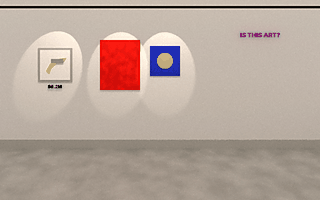
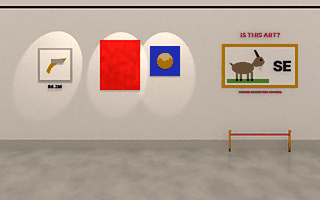
Art Basel: a goat painting, the word SE, and a fainted gallery-goer
A rebus behind a velvet rope with VIEWER DISCRETION ADVISED, plus
dialog for looking at it, waking the man who read it, and trying to buy it.

Claude-Session: https://claude.ai/code/session_01ET4nVosRozeduW6mF4cNPJ

diff --git a/src/content/chapter5.ts b/src/content/chapter5.ts
@@ -3,7 +3,7 @@
 // away from the wrong party, and helps Elon stop the Mandatory Update.
 
 import { EGA, person, poly, rect, text } from '../engine/gfx';
-import { backdrop, prop } from '../engine/art';
+import { backdrop, charSprite, prop } from '../engine/art';
 import { money, type Game } from '../engine/game';
 import type { Content, Item, Room } from '../engine/types';
 import { pamSave } from './pam';
@@ -82,8 +82,10 @@ const basel: Room = {
   title: 'Art Basel, Miami Beach',
   public: true,
   walk: { x: 4, y: 150, w: 312, h: 50 },
-  describe: 'Art Basel, Miami Beach: white walls, champagne and people pretending to understand things. A banana is duct-taped to one wall. A man in a white suit (not you, the other one) is examining it. A severe woman with a Smithsonian badge takes notes. A small man in glasses sits in a folding lawn chair in the middle of the floor. Ocean Drive is to the east.',
+  describe: 'Art Basel, Miami Beach: white walls, champagne and people pretending to understand things. A banana is duct-taped to one wall. A man in a white suit (not you, the other one) is examining it. A severe woman with a Smithsonian badge takes notes. A small man in glasses sits in a folding lawn chair in the middle of the floor. Behind a velvet rope hangs a painting of a goat, and a gallery-goer lies flat on the floor in front of it. Ocean Drive is to the east.',
   hotspots: [
+    { id: 'goat', names: ['goat', 'painting', 'goat painting', 'se', 'canvas', 'rope', 'velvet rope', 'discretion', 'placard'], rect: { x: 222, y: 44, w: 76, h: 44 }, look: (g) => { g.sfx('boing'); return 'Behind a velvet rope: an oil painting of a goat. Next to the goat, in letters two feet high, the word "SE." A placard reads VIEWER DISCRETION ADVISED. The card calls it "Untitled (Internet, 1999)."\n\nYou read it left to right. Goat. Se. Your brain finishes the word before you can stop it. You were on the internet in 1999. You have seen things.\n\nYou shudder. Somewhere in your soul a dial-up modem screams.'; } },
+    { id: 'fainted', names: ['fainted man', 'gallery goer', 'gallery-goer', 'guy on floor', 'man on floor', 'body', 'fainted', 'polo'], rect: { x: 262, y: 172, w: 40, h: 14 }, look: 'A gallery-goer in a lime polo, flat on his back in front of the goat painting, still holding his champagne perfectly upright. Someone has already put a card next to him: "REACTION (2026). Mixed media. $40,000."' },
     { id: 'banana', names: ['banana', 'art', 'tape', 'duct tape', 'wall', 'comedian'], rect: { x: 40, y: 50, w: 30, h: 30 }, look: (g) => { g.award('lookBanana'); return 'A banana, duct-taped to a white wall. The card reads: "COMEDIAN. Banana, duct tape. $6.2 million." A security guard watches it like it\'s the Mona Lisa.\n\nYou\'ve been carrying a historical artifact in your wallet for 39 years and nobody ever put it on a wall.'; } },
     { id: 'steve', names: ['steve', 'steve martin', 'martin', 'man', 'white suit', 'investor'], rect: { x: 113, y: 128, w: 14, h: 40 }, look: 'Steve Martin, in a white suit. He sees your white suit. You see his. A long moment passes between two men who have committed to the bit.' },
     { id: 'curator', names: ['curator', 'woman', 'smithsonian', 'lady', 'badge'], rect: { x: 183, y: 128, w: 14, h: 40 }, look: 'Dr. Ellen Pike, Smithsonian Curator of American Culture. Her badge says she\'s here "acquiring artifacts of the post-pandemic era." She has rejected four NFTs and a Bored Ape in the last hour.' },
@@ -95,6 +97,12 @@ const basel: Room = {
   ],
   draw(ctx, g) {
     backdrop(ctx, 'ch5-basel');
+    // the man who read the goat painting, out cold on the floor
+    ctx.save();
+    ctx.translate(304, 182);
+    ctx.rotate(-Math.PI / 2);
+    if (!charSprite(ctx, 'patron1', 0, 0, 'down')) rect(ctx, EGA.black, -6, -40, 12, 40);
+    ctx.restore();
     person(ctx, 120, 166, STEVE, 'left');
     person(ctx, 190, 166, CURATOR);
     if (!g.has('chair') && !has(g, 'chairPlaced')) {
@@ -113,6 +121,14 @@ const basel: Room = {
       g.award('sellLubber');
       g.sfx('cash');
       g.say(`You hold up the 1987 lubber. "Ma'am. This has been in my wallet since the Reagan administration. I carried it through the whole epidemic. I never needed it. Now nobody does."\n\nDr. Pike puts on white gloves. Her hands shake. "Unopened? With the original wallet ring? Do you know what this IS? This is the END of an ERA."\n\nShe makes three phone calls. A Smithsonian lawyer arrives. A check arrives. The check is for ${money(LUBBER_PRICE)}.\n\nThe lubber will hang next to Archie Bunker's chair. You finally have money. Real, American, richest-man money. Well, a start.`);
+      return true;
+    }
+    if (cmd.is(['talk', 'ask', 'wake', 'help', 'shake'], 'fainted man', 'gallery goer', 'gallery-goer', 'guy on floor', 'man on floor', 'body', 'fainted', 'polo')) {
+      g.say('You crouch down and pat his cheek. His eyes flutter open. "Was it... was it a goat?" he whispers. "And then..." His eyes drift to the wall. "...se." He faints again. His champagne does not spill.');
+      return true;
+    }
+    if (cmd.is(['get', 'take', 'buy', 'touch'], 'goat', 'painting', 'goat painting', 'canvas', 'se')) {
+      g.say('The curator steps in front of you. "That piece is not for sale, sir. It\'s for the Smithsonian\'s Hall of Things We Can Never Unsee."');
       return true;
     }
     if (cmd.is(['talk', 'ask'], 'curator', 'woman', 'smithsonian', 'lady', 'pike')) {

diff --git a/art/rooms/ch5-basel.py b/art/rooms/ch5-basel.py
@@ -1,5 +1,5 @@
-"""Chapter 5: Art Basel, Miami Beach. The neon, the duct-taped banana and
-the canvases are baked in; Moranis's chair and the people are drawn by the game."""
+"""Chapter 5: Art Basel, Miami Beach. The neon, the duct-taped banana, the
+goat painting behind its velvet rope and the canvases are baked in; Moranis's chair and the people are drawn by the game."""
 
 import os
 import sys
@@ -25,6 +25,28 @@ r.text('$6.2M', 55, 86.5, 4.5, D - 0.05, mat('#202020'))
 r.panel(100, 40, 40, 50, D - 0.06, mottled('#C01818', '#E02A20', scale=4), thick=2)
 r.panel(150, 46, 30, 30, D - 0.06, mat('#1830B0'), thick=2)
 r.oval(165, 61, 8, 8, D - 0.1, mat('#F8D820'), thick=1)
+
+# a painting of a goat, and next to it the letters SE. That's the whole joke.
+GOAT = mat('#8A7A68', rough=0.8)
+r.panel(222, 44, 76, 44, D - 0.05, mat('#C8A040', rough=0.3, metal=0.6), thick=3, name='goatframe')
+r.panel(225, 47, 70, 38, D - 0.08, mat('#FFFFFF', rough=0.9), thick=1)
+r.panel(227, 79, 42, 4, D - 0.1, mat('#5AA040', rough=0.9), thick=0.5, name='grass')
+r.oval(243, 68, 11, 6, D - 0.11, GOAT, thick=1, name='goatbody')
+r.poly([(252, 64), (257, 57), (262, 57), (265, 62), (262, 66), (256, 67)], D - 0.12, GOAT, thick=1, name='goathead')
+r.poly([(257, 57), (254, 50), (256, 50), (260, 57)], D - 0.13, mat('#3A3028'), thick=0.5, name='horn')
+r.poly([(259, 66), (262, 66), (261, 71)], D - 0.13, mat('#E8E0D0'), thick=0.5, name='beard')
+r.poly([(232, 66), (229, 62), (233, 64)], D - 0.12, GOAT, thick=0.5, name='goattail')
+r.ball(261, 60, D - 0.14, 0.8, mat('#101010'))
+for lx in (236, 240, 247, 251):
+    r.panel(lx, 72, 2, 9, D - 0.1, GOAT, thick=0.5, name='goatleg')
+r.text('SE', 282, 66, 15, D - 0.1, mat('#101010'))
+r.text('VIEWER DISCRETION ADVISED', 260, 92, 3, D - 0.05, mat('#C01818'))
+# velvet rope
+BRASS = mat('#D0A840', metal=0.9, rough=0.25)
+for px in (230, 290):
+    r.post(px, 152, 1, 132, BRASS, 'ropepost')
+    r.ball(px, 131, r.floor_d(152), 1.5, BRASS)
+r.panel(230, 134, 60, 1.5, r.floor_d(152) - 0.02, mat('#A01020', rough=0.6), thick=1, name='rope')
 
 # neon
 r.text('IS THIS ART?', 260, 35, 6.5, D - 0.08, mat('#F020B0', rough=0.3))
